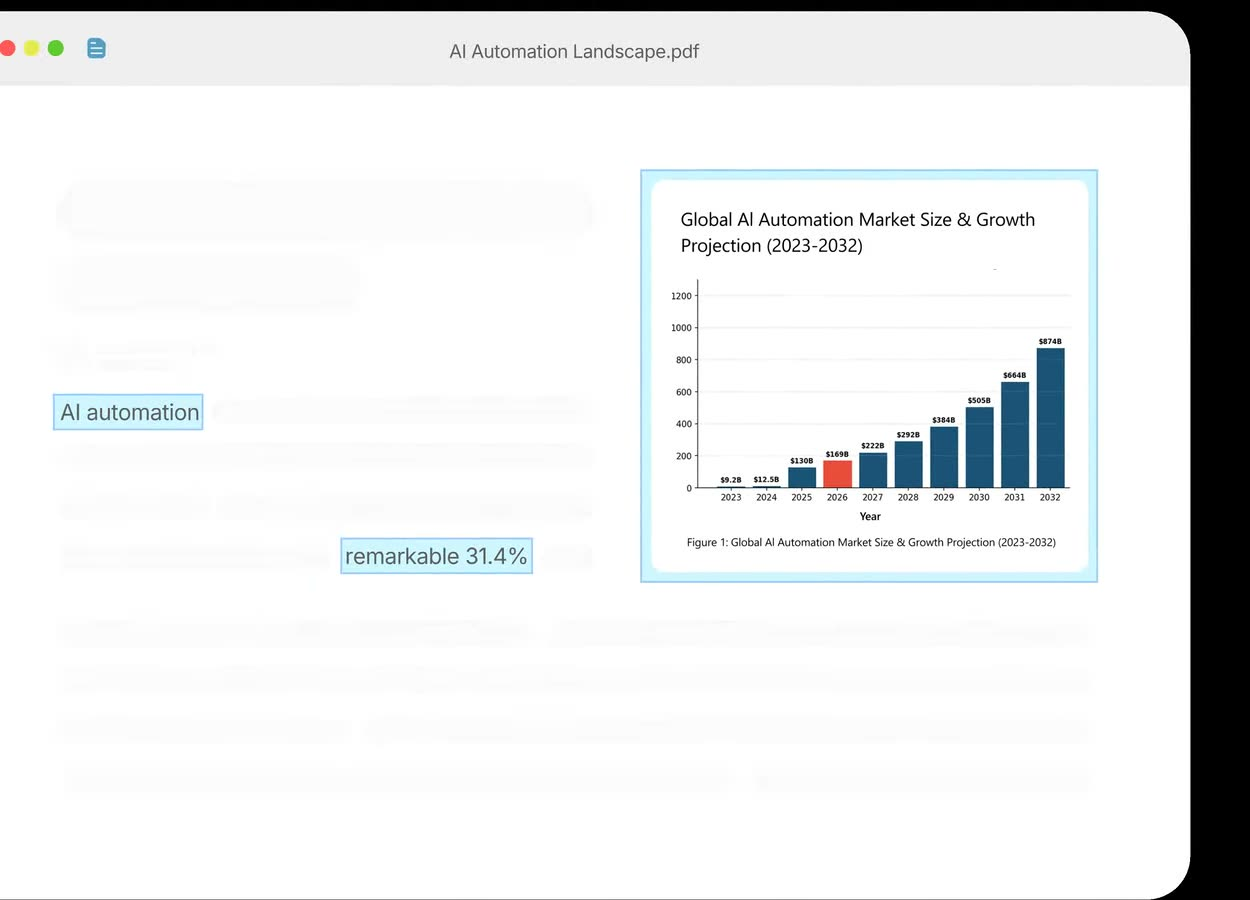
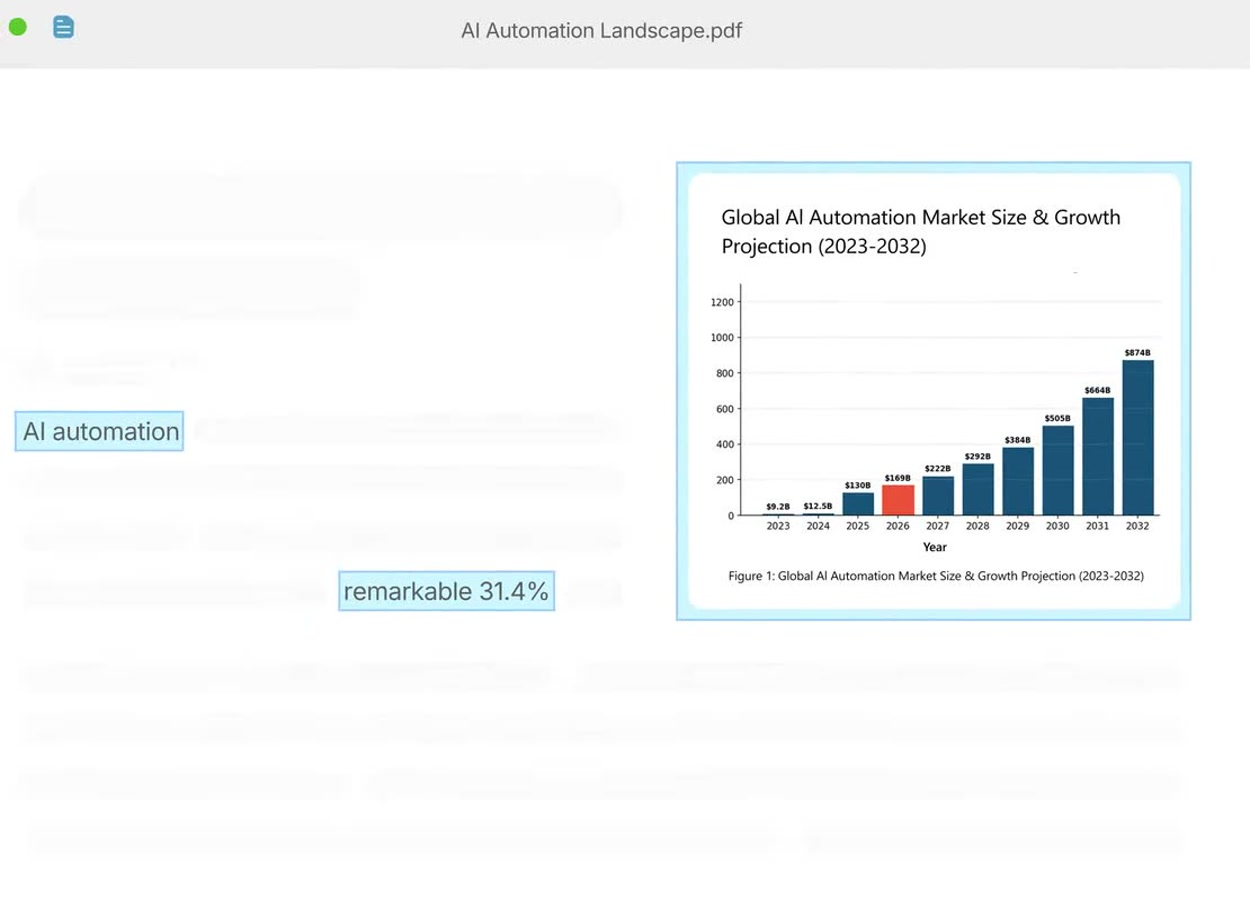
fix: keep visible workflow videos playing

Changed region(s): [[0.0, 0.0, 1.0, 1.0], [0.2496, 0.5911, 0.468, 0.6844], [0.0, 0.4356, 0.1872, 0.5289]]

diff --git a/src/landing/WorkflowVideoLayer.tsx b/src/landing/WorkflowVideoLayer.tsx
@@ -6,14 +6,12 @@ export function WorkflowVideoLayer({
   demo,
   distance,
   isDominant,
-  isVisible,
   media,
   travel = 10,
 }: {
   demo: WorkflowDemo
   distance: number
   isDominant: boolean
-  isVisible: boolean
   media: string
   travel?: number
 }) {
@@ -27,12 +25,20 @@ export function WorkflowVideoLayer({
     if (isDominant && !wasDominantRef.current) video.currentTime = 0
     wasDominantRef.current = isDominant
 
-    if (isVisible && isDominant) {
-      void video.play().catch(() => {})
-    } else {
+    const observer = new IntersectionObserver(([entry]) => {
+      if (entry?.isIntersecting && isDominant) {
+        void video.play().catch(() => {})
+      } else {
+        video.pause()
+      }
+    })
+
+    observer.observe(video)
+    return () => {
+      observer.disconnect()
       video.pause()
     }
-  }, [isDominant, isVisible])
+  }, [isDominant])
 
   const exiting = smoothStep(clamp(-distance))
   const entering = smoothStep(clamp(1 - distance))

diff --git a/src/landing/Desktop.tsx b/src/landing/Desktop.tsx
@@ -145,10 +145,8 @@ function CloudsTransition() {
 
 function WorkflowVideoPanel({
   workflowPosition,
-  isVisible,
 }: {
   workflowPosition: number
-  isVisible: boolean
 }) {
   const dominantIndex = Math.min(
     Math.round(workflowPosition),
@@ -169,7 +167,6 @@ function WorkflowVideoPanel({
             demo={demo}
             distance={distance}
             isDominant={isDominant}
-            isVisible={isVisible}
             media="(min-width: 1024px)"
             travel={12}
           />
@@ -380,7 +377,6 @@ function WorkflowDemoSection() {
   const sectionRef = useRef<HTMLElement | null>(null)
   const reducedMotion = usePrefersReducedMotion()
   const [scrollProgress, setScrollProgress] = useState(0)
-  const [isWorkflowVisible, setIsWorkflowVisible] = useState(false)
 
   useEffect(() => {
     if (reducedMotion) return
@@ -408,11 +404,6 @@ function WorkflowDemoSection() {
         scrub: 0.15,
         anticipatePin: 1,
         invalidateOnRefresh: true,
-        onEnter: () => setIsWorkflowVisible(true),
-        onEnterBack: () => setIsWorkflowVisible(true),
-        onLeave: () => setIsWorkflowVisible(false),
-        onLeaveBack: () => setIsWorkflowVisible(false),
-        onToggle: (self) => setIsWorkflowVisible(self.isActive),
         onUpdate: (self) => setScrollProgress(self.progress),
       })
 
@@ -453,10 +444,7 @@ function WorkflowDemoSection() {
             </div>
           </aside>
 
-          <WorkflowVideoPanel
-            workflowPosition={workflowPosition}
-            isVisible={isWorkflowVisible}
-          />
+          <WorkflowVideoPanel workflowPosition={workflowPosition} />
         </div>
       </div>
     </section>

diff --git a/src/landing/Mobile.tsx b/src/landing/Mobile.tsx
@@ -200,11 +200,9 @@ function MobileCloudsTransition() {
 /* ------------------------------------------------------------------ */
 function MobileWorkflowVideoPanel({
   workflowPosition,
-  isVisible,
   viewportMode,
 }: {
   workflowPosition: number
-  isVisible: boolean
   viewportMode: MobileWorkflowViewportMode
 }) {
   const dominantIndex = Math.min(
@@ -236,7 +234,6 @@ function MobileWorkflowVideoPanel({
             demo={demo}
             distance={distance}
             isDominant={isDominant}
-            isVisible={isVisible}
             media="(max-width: 1023px)"
             travel={8}
           />
@@ -478,7 +475,6 @@ function MobileWorkflowShowcase() {
   const reducedMotion = usePrefersReducedMotion()
   const viewportMode = useMobileWorkflowViewportMode()
   const [scrollProgress, setScrollProgress] = useState(0)
-  const [isVideoPlaybackVisible, setIsVideoPlaybackVisible] = useState(false)
 
   useEffect(() => {
     if (reducedMotion) return
@@ -506,11 +502,6 @@ function MobileWorkflowShowcase() {
         scrub: 0.12,
         anticipatePin: 1,
         invalidateOnRefresh: true,
-        onEnter: () => setIsVideoPlaybackVisible(true),
-        onEnterBack: () => setIsVideoPlaybackVisible(true),
-        onLeave: () => setIsVideoPlaybackVisible(false),
-        onLeaveBack: () => setIsVideoPlaybackVisible(false),
-        onToggle: (self) => setIsVideoPlaybackVisible(self.isActive),
         onUpdate: (self) => setScrollProgress(self.progress),
       })
 
@@ -568,7 +559,6 @@ function MobileWorkflowShowcase() {
         <div className="w-full">
           <MobileWorkflowVideoPanel
             workflowPosition={workflowPosition}
-            isVisible={isVideoPlaybackVisible}
             viewportMode={viewportMode}
           />
         </div>